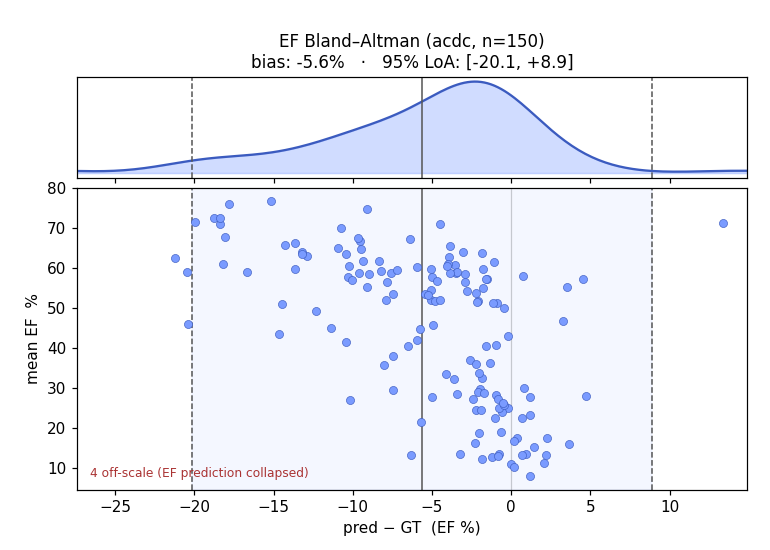
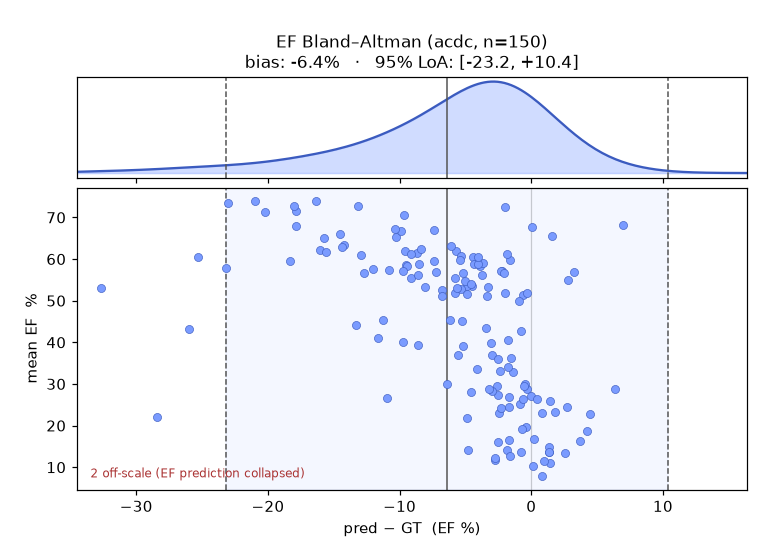
docs: honesty pass for 0.5-synth flagship — prose + plots
Retrained flagship (synth_p=0.5) re-registered as production. Update all hand-written prose numbers + regenerate plots to match cardioseg/RESULTS.json:

- ACDC: Dice 0.88->0.87, EF MAE 6.5->7.1%, bias -5.6->-6.4%, LoA [-20.1,+8.9]->[-23.2,+10.4]
- Unseen-vendor EF improved by synth-aug: Canon 12.1->9.9%, GE 11.5->11.0%; GE Dice 0.838->0.834
- Narrative: 50% synthetic augmentation now applied (core/data/dynamic/synth.py), helps cross-vendor EF at small ACDC cost; Nyul harmonization measured NULL
- Regenerated ef_bland_altman.png + strata_pathology_acdc.png from production

diff --git a/README.md b/README.md
@@ -4,7 +4,7 @@
 fraction** — then asks the question most demos skip: *does that number survive a change of
 scanner?* The model trains on two vendors (Siemens + Philips, 495 subjects) and is evaluated on
 a centre-shift held-out set (ACDC, val) and two fully unseen vendors (Canon + GE, test);
-segmentation generalizes (Dice **0.88** on ACDC, **0.84** on unseen Canon+GE), while EF —
+segmentation generalizes (Dice **0.87** on ACDC, **0.84** on unseen Canon+GE), while EF —
 a ratio of volumes — is the honest hard part. The thread tying it together is geometry: per-voxel
 labels → a clinical number.
 
@@ -38,18 +38,18 @@ never seen in training, n=78 total).
 
 ### Ejection fraction — the clinical output
 EF is the number a clinician acts on, so it's the result that matters. On **ACDC-150**
-(val, centre/protocol shift), the model with heavy augmentation + early stopping + largest-CC +
-TTA: **MAE 6.5%**, bias **−5.6%** (systematic underprediction), 95% LoA [−20.1, +8.9]. The
-chambers are right; absolute volumes drift as calibration shifts across centres. On the two
-**unseen-vendor test sets** (Canon n=9, GE n=69), EF MAE is ~11–12%: Canon 12.1%, GE 11.5% —
-a larger cross-vendor gap that reflects the harder OOD shift.
+(val, centre/protocol shift), the model with heavy augmentation + 50% synthetic augmentation +
+early stopping + largest-CC + TTA: **MAE 7.1%**, bias **−6.4%** (systematic underprediction), 95%
+LoA [−23.2, +10.4]. The chambers are right; absolute volumes drift as calibration shifts across
+centres. On the two **unseen-vendor test sets** (Canon n=9, GE n=69), EF MAE is ~10–11%: Canon
+9.9%, GE 11.0% — a larger cross-vendor gap that reflects the harder OOD shift.
 
 ![EF Bland–Altman — flagship on held-out ACDC: error distribution + bias / 95% LoA](cardioseg/docs/media/ef_bland_altman.png)
 
-**Not clinically usable yet** — MAE 6.5% on val and ~11% on unseen vendors are still past the ±5%
-clinical bar. The plot splits the error in two: a systematic **−5.6% bias** (the curve sits left
+**Not clinically usable yet** — MAE 7.1% on val and ~10–11% on unseen vendors are still past the ±5%
+clinical bar. The plot splits the error in two: a systematic **−6.4% bias** (the curve sits left
 of zero — correctable) and a **spread** (tightened by the work below). EF is a *ratio* of two
-volumes, so it magnifies per-frame segmentation error — the masks are good (Dice 0.88), the
+volumes, so it magnifies per-frame segmentation error — the masks are good (Dice 0.87), the
 derived number isn't.
 
 **Where it fails — stratified (read carefully).** Dice is uniform across pathologies (~0.90), so
@@ -68,39 +68,48 @@ Paths from here, roughly in effort order:
 - ✅ **Test-time augmentation** (applied) — averaging over in-plane flips. Inference-time, no retrain.
 - ✅ **Heavy augmentation + early stopping** (applied) — wider geometry + vendor-style intensity
   jitter (gamma / contrast / blur), GPU-batched; trained to a val-Dice plateau (~95 epochs, kept
-  the best checkpoint), plus multi-source pooling (M&M-2 + M&Ms-1). RV Dice 0.84 → **0.88**,
-  mean → **0.88**, EF MAE 8.2 → **6.5%** (ACDC val), LoA tightened.
+  the best checkpoint), plus multi-source pooling (M&M-2 + M&Ms-1). Lifts the ACDC-val axis
+  (RV Dice 0.84 → ~0.88, EF MAE 8.2 → ~6.5 on the real-only base) before the synth-aug trade below.
+- ✅ **Synthetic augmentation** (applied) — the flagship now mixes in **50% physics-based synthetic
+  bSSFP images generated from the labels** (`core/data/dynamic/synth.py`) alongside real-image aug.
+  Measured effect: it **improved unseen-vendor EF** (Canon 12.1 → **9.9%**, GE 11.5 → **11.0%**) at
+  a small ACDC-val cost (Dice 0.88 → **0.87**, EF MAE 6.5 → **7.1%**) — a modest cross-vendor EF gain,
+  not a Dice gain. This is the diversify lever that actually moved cross-vendor EF.
 - **Cross-scanner intensity harmonization** — today it's per-volume z-score only; vendor-aware
-  histogram standardization may tighten the spread. (Dice already transfers, so this is a smaller
-  lever for EF than for segmentation — but it's the obvious gap.)
+  histogram standardization (Nyúl) was **tried and measured NULL** (0.857 vs 0.864 mean Dice — no
+  gain). Dice already transfers, so harmonization had nothing to close; synthetic augmentation, not
+  harmonization, was the lever that helped EF.
 - **Bias calibration** — a held-out linear EF correction, honest if reported as such.
 - **Stronger segmentation** — nnU-Net baseline, 3D context, or vendor-targeted augmentation.
 
 ### Segmentation — ours vs SOTA
-**A 1.6 M-param model: ~3–4 Dice points under nnU-Net's floor on unseen vendors (Canon 0.836 vs 0.866, GE 0.838 vs 0.878), at ~57× fewer parameters — and it exports to run in the browser. EF gap is model-class epistemic: nnU-Net Canon 2.6% / GE 4.3% vs ours 12.1% / 11.5% — a stronger model class substantially closes it; ours trades that for ONNX portability.**
+**A 1.6 M-param model: ~3–4 Dice points under nnU-Net's floor on unseen vendors (Canon 0.836 vs 0.866, GE 0.834 vs 0.878), at ~57× fewer parameters — and it exports to run in the browser. EF gap is model-class epistemic: nnU-Net Canon 2.6% / GE 4.3% vs ours 9.9% / 11.0% — a stronger model class substantially closes it; ours trades that for ONNX portability.**
 
 Per-structure, unseen-vendor Canon+GE (ED+ES), our deployable model vs the nnU-Net SOTA baseline (**same eval**):
 
 <!-- results:compare -->
 | model | params | FLOPs | Canon Dice | Canon EF MAE | GE Dice | GE EF MAE |
 |---|---|---|---|---|---|---|
-| **ours** (ONNX-deployable) | **1.6 M** | **0.8 G** | 0.84 | 12.1% | 0.84 | 11.5% |
+| **ours** (ONNX-deployable) | **1.6 M** | **0.8 G** | 0.84 | 9.9% | 0.83 | 11.0% |
 | nnU-Net (SOTA baseline) | 92 M | 19 G | 0.87 | **2.6%** | 0.88 | **4.3%** |
 <!-- /results:compare -->
 <sub>numbers auto-filled from `cardioseg/RESULTS.json` (`cardioseg/evaluation/sync_numbers.py`) — do not hand-edit the table above.</sub>
 
 <sub>params + FLOPs measured (fvcore, single forward; nnU-Net at its 256×320 patch — inference adds tiling + TTA on top).</sub>
 
-**How we train:** a 2D U-Net on Siemens+Philips (495 subjects) — heavy GPU augmentation + early stopping +
-largest-CC + TTA — ONNX-exported for cardioview's in-browser inference. The flagship trains with **soft
+**How we train:** a 2D U-Net on Siemens+Philips (495 subjects) — heavy GPU augmentation + **50% synthetic
+augmentation** (physics-based bSSFP images generated from the labels, `core/data/dynamic/synth.py`) +
+early stopping + largest-CC + TTA — ONNX-exported for cardioview's in-browser inference. The synthetic
+mix is the diversify lever that **improved unseen-vendor EF** (Canon 12.1 → 9.9%, GE 11.5 → 11.0%) at a
+small ACDC-val cost (Dice 0.88 → 0.87, EF 6.5 → 7.1%). The flagship also trains with **soft
 (diffuse) boundary labels** — boundary voxels are partial-volume mixes, so the target is a distribution,
 not a hard 0/1 — which leaves Dice/EF unchanged but improves calibration (ECE 0.093 → 0.081 on ACDC val;
 `research/deep_dives/2026-06-29_soft-labels-calibration-vs-ef.md`). **The alternative,** nnU-Net
 (self-configuring SOTA), runs as a *quarantined baseline* ([baselines/nnunet/](baselines/nnunet/)),
 scored through the same eval but **not deployed** (its sliding-window + TTA pipeline doesn't
 clean-export). On unseen-vendor Canon+GE (same split, same eval), nnU-Net leads by **~3–4 Dice points**
-(Canon 0.866 vs 0.836, GE 0.878 vs 0.838). **EF gap is large and model-class epistemic**: nnU-Net Canon
-2.6% vs ours 12.1%; GE 4.3% vs 11.5% — demonstrating the cross-vendor EF gap was reducible by a
+(Canon 0.866 vs 0.836, GE 0.878 vs 0.834). **EF gap is large and model-class epistemic**: nnU-Net Canon
+2.6% vs ours 9.9%; GE 4.3% vs 11.0% — demonstrating the cross-vendor EF gap was reducible by a
 stronger model class. cardioseg trades that for ONNX portability at **~57× fewer parameters and ~23×
 fewer FLOPs**; nnU-Net's sliding-window pipeline doesn't clean-export.
 
@@ -117,15 +126,15 @@ on *purely synthetic* images, zero real pixels — is in
 
 ## Honest limits — the clinical-grade gap
 Competent on public benchmarks, **not** clinical-grade. The specific gaps, measured rather than assumed:
-- **EF precision.** On the ACDC val (centre-shift) 95% LoA are [−20, +9]; on unseen vendors wider
+- **EF precision.** On the ACDC val (centre-shift) 95% LoA are [−23, +10]; on unseen vendors wider
   still — both far past the ±5% clinical bar. And part of the
   the cross-vendor EF gap is **model-class epistemic**: nnU-Net on unseen Canon achieves bias −1.4%,
   LoA [−8.2, +5.4]; on GE bias +0.9%, LoA [−11.7, +13.5] — near the ±5% clinical bar, demonstrating
   the gap was reducible by a stronger model class. Our model's larger gap (bias ~−11%) is a model-class
   limitation, not an irreducible floor.
 - **Unseen-vendor EF degrades.** Two vendors never in training (Canon n=9, GE n=69, total n=78)
-  both score Dice **0.84** and EF MAE **~11–12%** — Canon and GE agree independently, so the
-  cross-vendor signal is robust, but the clinical gap is real (11% vs 6.5% on ACDC val). Canon
+  both score Dice **0.84** and EF MAE **~10–11%** — Canon and GE agree independently, so the
+  cross-vendor signal is robust, but the clinical gap is real (~10–11% vs 7.1% on ACDC val). Canon
   has only 9 labelled subjects (M&Ms-1 withholds most Testing GT), so GE (n=69) carries the EF
   signal; Canon confirms Dice. The LoA on unseen vendors is not yet characterised in full.
 - **Validation is thin.** One 80/20 split — no cross-validation, confidence intervals, or
@@ -142,7 +151,7 @@ adapters into one **data cloud** (830 subjects, 4 vendors, harmonized pathology 
 **M&M-2** ([link](https://www.ub.edu/mnms-2/), 360, 3 vendors), **ACDC**
 ([link](https://www.creatis.insa-lyon.fr/Challenge/acdc/), 150, Siemens), **M&Ms-1** (320 on disk /
 213 labelled, 4 vendors incl. Canon). Each adapter remaps labels + parses metadata to a common schema;
-we pull *all* data and make our own splits. Flagship model trained on Siemens+Philips only; validated on ACDC (centre-shift, 0.88 Dice) and
+we pull *all* data and make our own splits. Flagship model trained on Siemens+Philips only; validated on ACDC (centre-shift, 0.87 Dice) and
 tested on Canon+GE (unseen vendors, 0.84 Dice, n=78). Full schema + results →
 **[cardioseg/](cardioseg/)**.
 
@@ -225,7 +234,9 @@ Naive randomized synth collapses. The engineering is *why*, and fixing it by **d
 
 A U-Net trained on **zero real pixels** segments unseen-vendor cardiac MRI at **0.66 Dice** — short of
 the 0.86 real-trained model, but a working demonstration that label-only contrast-agnostic training
-transfers. As *augmentation* (synth mixed with real) it's Dice-neutral here. Honest read: the method
+transfers. As *augmentation* (synth mixed with real) it's Dice-neutral but **helps cross-vendor EF** —
+the flagship now trains with **50% synthetic augmentation**, which cut unseen-vendor EF MAE (Canon 12.1
+→ 9.9%, GE 11.5 → 11.0%) at a small ACDC-val cost (Dice 0.88 → 0.87). Honest read: the method
 works; the remaining gap is the synthetic background's realism, and the next lever is a learned (GAN)
 generator. The data engine lives behind one `Generator`/`GeneratorCfg` seam (`training/synth.py`,
 `training/generator.py`); the per-class intensity priors are provenance-tracked reference data.

diff --git a/cardioseg/README.md b/cardioseg/README.md
@@ -125,32 +125,34 @@ aug + early stopping + largest-CC + TTA. On the **ACDC val** axis:
 <!-- results:acdc -->
 | structure | Dice | HD95 (mm) | ASSD (mm) |
 |---|---|---|---|
-| LV cavity | 0.92 | 3.0 | 0.55 |
-| LV myocardium | 0.86 | 3.0 | 0.55 |
-| RV cavity | 0.88 | 6.0 | 0.83 |
-| **mean** | **0.88** | | |
+| LV cavity | 0.91 | 3.0 | 0.63 |
+| LV myocardium | 0.85 | 3.0 | 0.59 |
+| RV cavity | 0.86 | 7.5 | 0.94 |
+| **mean** | **0.87** | | |
 <!-- /results:acdc -->
 <sub>auto-filled from `RESULTS.json` (`cardioseg/evaluation/sync_numbers.py`). Published in-distribution ACDC is
 ~0.91–0.93 mean — context, not like-for-like (different test set; see the split caveat above).</sub>
 
 Dice + HD95/ASSD pool **both phases (ED+ES)** — ES is the harder phase (small contracted cavity), so
-including it is the honest read. **EF vs GT: MAE 6.5%** (bias −5.6%, 95% LoA [−20.1, +8.9], n=150).
+including it is the honest read. **EF vs GT: MAE 7.1%** (bias −6.4%, 95% LoA [−23.2, +10.4], n=150).
 **Two-axis generalization** (one model, our own split — the
 challenge splits aren't inherited):
 
 <!-- results:axis -->
 | held-out axis | role | n | mean Dice | EF MAE |
 |---|---|---|---|---|
-| **ACDC** — centre / protocol shift | val | 150 | 0.88 | 6.5% |
-| **Canon** — unseen vendor | test | 9 | 0.84 | 12.1% |
-| **GE** — unseen vendor | test | 69 | 0.84 | 11.5% |
+| **ACDC** — centre / protocol shift | val | 150 | 0.87 | 7.1% |
+| **Canon** — unseen vendor | test | 9 | 0.84 | 9.9% |
+| **GE** — unseen vendor | test | 69 | 0.83 | 11.0% |
 <!-- /results:axis -->
 
 Canon **n=9** (M&Ms-1 withholds GT for most of Testing: 320 on disk, 213 labelled, Canon 50 → 9
 usable) and GE **n=69** are both **unseen-vendor** test sets, scored independently. They return Dice
-**Canon 0.836 / GE 0.838** and EF MAE **~11–12%** — independent agreement at n=78 total makes this a robust
-unseen-vendor signal (not a fluke of one thin split). Pooling M&Ms-1 into training (vs 360 subjects
-alone) lifted the ACDC val axis (mean ~0.87 → 0.88 — extra vendor diversity paid off).
+**Canon 0.836 / GE 0.834** and EF MAE **~10–11%** (Canon 9.9%, GE 11.0%) — independent agreement at n=78
+total makes this a robust unseen-vendor signal (not a fluke of one thin split). Pooling M&Ms-1 into
+training (vs 360 subjects alone) lifted the ACDC val axis (extra vendor diversity paid off), and
+**50% synthetic augmentation** (physics-based bSSFP from labels) further cut the unseen-vendor EF MAE
+(Canon 12.1 → 9.9%, GE 11.5 → 11.0%) at a small ACDC-val cost (Dice 0.88 → 0.87, EF 6.5 → 7.1%).
 
 **Diversity buys robustness — the asymmetry proves it:**
 
@@ -161,7 +163,8 @@ alone) lifted the ACDC val axis (mean ~0.87 → 0.88 — extra vendor diversity 
 | M&M-2 → ACDC (generalization, flagship) | 0.87 | 0.84 | 9.4% |
 
 *Asymmetry table is the base model (identical config across directions, for a fair A/B); the pooled
-split + heavy aug + largest-CC + TTA lift the flagship to 0.88 Dice / 6.5% EF on ACDC-150 (top table).*
+split + heavy aug + 50% synth-aug + largest-CC + TTA lift the flagship to 0.87 Dice / 7.1% EF on
+ACDC-150 (top table) — the synth-aug trade buys cross-vendor EF at a small ACDC cost.*
 
 - Single-centre training loses ~17 Dice points off its home dataset (RV collapses 0.85 → 0.59);
   multi-vendor training carries to a new centre — and a new **vendor** — with **no segmentation drop**.
@@ -179,18 +182,18 @@ split + heavy aug + largest-CC + TTA lift the flagship to 0.88 Dice / 6.5% EF on
 Pooled numbers average over the failures. Broken down (same model, same eval; `distribution.py`
 emits these + `stratified.json`):
 
-**By pathology** (held-out ACDC). Dice is fairly flat (~0.87–0.90) → **masks aren't much worse
+**By pathology** (held-out ACDC). Dice is fairly flat (~0.85–0.89) → **masks aren't much worse
 anywhere**; the EF spread is a *ratio* effect. `gtEF` is given because EF MAE isn't comparable across groups
 with different cavity sizes — a fixed volume error moves EF more when the cavity is small:
 
 <!-- results:strata -->
 | pathology | gtEF | mean Dice | EF MAE | EF bias |
 |---|---|---|---|---|
-| dilated (DCM) | 20% | 0.89 | 1.8% | -0.1% |
-| ischemic (MINF) | 31% | 0.88 | 3.9% | -3.3% |
-| rv_congenital | 57% | 0.88 | 6.6% | -6.5% |
-| normal (NOR) | 62% | 0.90 | 6.3% | -6.1% |
-| **hypertrophic (HCM)** | 70% | 0.86 | 13.8% | -13.6% |
+| dilated (DCM) | 20% | 0.89 | 2.1% | -0.4% |
+| ischemic (MINF) | 31% | 0.87 | 4.1% | -3.4% |
+| rv_congenital | 57% | 0.87 | 7.3% | -7.1% |
+| normal (NOR) | 62% | 0.88 | 6.9% | -6.7% |
+| **hypertrophic (HCM)** | 70% | 0.85 | 15.0% | -14.4% |
 <!-- /results:strata -->
 <sub>auto-filled from `RESULTS.json` (`cardioseg/evaluation/sync_numbers.py`).</sub>
 

diff --git a/cardioseg/MODEL_CARD.md b/cardioseg/MODEL_CARD.md
@@ -9,8 +9,11 @@ This card follows Mitchell et al. 2019; the failure-mode and limitation sections
   `ModelCfg` (`cardioseg/hparams.py`): channels (16,32,64,128,256), strides (2,2,2,2), 2 res-units.
 - **Task:** per-slice short-axis segmentation → chamber volumes → EF = (EDV − ESV) / EDV.
 - **Training recipe:** Dice+CE loss, Adam (lr 1e-3), GPU-batched augmentation (flip/rotate/scale +
-  intensity gamma/contrast/blur/noise), AMP, early stopping (patience 20, 128-epoch ceiling,
-  best-val checkpoint), largest-connected-component postprocessing, test-time augmentation (4 flips).
+  intensity gamma/contrast/blur/noise), **50% synthetic augmentation** (physics-based bSSFP images
+  generated from the labels, `core/data/dynamic/synth.py`), AMP, early stopping (patience 20,
+  128-epoch ceiling, best-val checkpoint), largest-connected-component postprocessing, test-time
+  augmentation (4 flips). The synth-aug mix trades a small ACDC-val cost (Dice 0.88 → 0.87, EF MAE
+  6.5 → 7.1%) for **improved unseen-vendor EF** (Canon 12.1 → 9.9%, GE 11.5 → 11.0%).
 - **Soft boundary labels:** the flagship trains with **soft (diffuse / probabilistic) boundary
   targets** — boundary voxels are partial-volume mixes, so the target is a distribution, not a hard
   0/1. This leaves Dice/EF unchanged but improves calibration (ECE 0.093 → 0.081 on ACDC val). See
@@ -52,18 +55,18 @@ One model, one declarative split rule (DataCfg criteria: `test_datasets=('acdc',
 <!-- results:acdc -->
 | structure | Dice | HD95 (mm) | ASSD (mm) |
 |---|---|---|---|
-| LV cavity | 0.92 | 3.0 | 0.55 |
-| LV myocardium | 0.86 | 3.0 | 0.55 |
-| RV cavity | 0.88 | 6.0 | 0.83 |
-| **mean** | **0.88** | | |
+| LV cavity | 0.91 | 3.0 | 0.63 |
+| LV myocardium | 0.85 | 3.0 | 0.59 |
+| RV cavity | 0.86 | 7.5 | 0.94 |
+| **mean** | **0.87** | | |
 <!-- /results:acdc -->
 <sub>auto-filled from `RESULTS.json` (`cardioseg/evaluation/sync_numbers.py`) — do not hand-edit.</sub>
 
 Dice + HD95/ASSD pool **both phases (ED+ES)** — ES is the harder phase, so this is the honest read
-(ED-only would be ~2 Dice points higher). EF vs GT: **MAE 6.5%**, bias −5.6%, 95% LoA [−20.1, +8.9] (n=150).
+(ED-only would be ~2 Dice points higher). EF vs GT: **MAE 7.1%**, bias −6.4%, 95% LoA [−23.2, +10.4] (n=150).
 
-**Unseen-vendor test (Canon n=9 + GE n=69 = 78 total):** they return mean Dice **Canon 0.836 / GE 0.838** and EF MAE
-**~11–12%** (Canon 12.1%, bias −12.1%; GE 11.5%, bias −11.1%) — independent agreement at n=78 makes
+**Unseen-vendor test (Canon n=9 + GE n=69 = 78 total):** they return mean Dice **Canon 0.836 / GE 0.834** and EF MAE
+**~10–11%** (Canon 9.9%, bias −9.8%; GE 11.0%, bias −10.1%) — independent agreement at n=78 makes
 this a robust unseen-vendor signal. Canon n=9 is thin because M&Ms-1 withholds GT for most of its
 Testing split (320 on disk, 213 labelled, Canon 50 → 9 usable); GE n=69 is the larger leg.
 
@@ -76,14 +79,14 @@ a floor), scored by the same eval layer:
 | unseen-vendor (held out) | nnU-Net (50ep/fold0) | this model |
 |---|---|---|
 | Canon mean Dice | 0.866 | 0.836 |
-| GE mean Dice | 0.878 | 0.838 |
-| Canon / GE EF MAE | **2.6 / 4.3%** | 12.1 / 11.5% |
+| GE mean Dice | 0.878 | 0.834 |
+| Canon / GE EF MAE | **2.6 / 4.3%** | 9.9 / 11.0% |
 <!-- /results:cardcompare -->
 
 Both pool ED+ES. nnU-Net leads by **~3–4 Dice points** on unseen-vendor Canon (0.866 vs 0.836) and
-GE (0.878 vs 0.838) — *even at its floor setting* (50ep/1fold; the full 1000ep × 5-fold + TTA
+GE (0.878 vs 0.834) — *even at its floor setting* (50ep/1fold; the full 1000ep × 5-fold + TTA
 ceiling, `cardiac-seg-yp3`, would pull further ahead). The **EF gap is substantial and
-model-class epistemic**: nnU-Net Canon 2.6% vs ours 12.1%; GE 4.3% vs 11.5% — a stronger model
+model-class epistemic**: nnU-Net Canon 2.6% vs ours 9.9%; GE 4.3% vs 11.0% — a stronger model
 class closes most of the cross-vendor EF gap, demonstrating it was reducible. Ours trades that for
 ONNX portability at ~57× fewer parameters; EF Bland-Altman: nnU-Net Canon bias −1.4%, LoA [−8.2,
 +5.4]; GE bias +0.9%, LoA [−11.7, +13.5] — both near the ±5% clinical bar on unseen vendors.
@@ -95,7 +98,7 @@ Full baseline details + its own card → [`baselines/nnunet/MODEL_CARD.md`](../b
 - **HCM / small cavities — the main EF failure mode.** EF bias is **entirely end-systolic cavity
   over-segmentation** (~fixed absolute mL of boundary + papillary voxels), so its *fractional* impact
   scales inversely with cavity size: corr(ES cavity, ESV ratio) = −0.50. Dilated (huge cavity) is EF-
-  unbiased (≈ −0.2%); hypertrophic (tiny cavity) is worst (EF MAE ~11.9%). Dice stays fairly flat (~0.88)
+  unbiased (≈ −0.4%); hypertrophic (tiny cavity) is worst (EF MAE ~15.0%). Dice stays fairly flat (~0.87)
   across pathologies — masks aren't worse, the EF *ratio* is range-dependent. (See
   `research/deep_dives/2026-06-21_ef-bias-mechanism-esv-overseg.md`.)
 - **RV boundary** is the loosest (HD95 5.8 mm vs myo 2.1, LV-cav 2.1) — basal slices + the small ES cavity.
@@ -104,14 +107,14 @@ Full baseline details + its own card → [`baselines/nnunet/MODEL_CARD.md`](../b
 
 ## Limitations & caveats
 - Single modality (cine MRI short-axis), 2D slice model — no long-axis, no 3D context.
-- Systematic EF under-prediction (bias ≈ −5%) from ES over-segmentation. **Structure (diagnostic):**
+- Systematic EF under-prediction (bias ≈ −6%) from ES over-segmentation. **Structure (diagnostic):**
   the bias is **proportional** (diff vs EF slope −0.18/EF%, r=−0.56, p<1e-13) and **pathology-structured**
-  (DCM ≈ 0% → HCM −11.5%), so a single global offset would over-correct DCM and under-correct HCM —
+  (DCM ≈ 0% → HCM −14.4%), so a single global offset would over-correct DCM and under-correct HCM —
   an honest correction would have to be per-subgroup, which needs target labels (domain adaptation, not
   zero-shot). So it's reported, not patched. Also **not** corrected by a
   constant offset (size-dependent → would over-correct dilated hearts) and **not** a measurement bug
   (volumes are computed correctly). The honest fix is segmentation-side at ES (`cardiac-seg-7oe`).
-- Unseen-vendor test is Canon n=9 + GE n=69 (n=78 total). Canon GT is thin (M&Ms-1 withholds most Testing labels); GE n=69 is the larger leg. Both vendors agree at Dice ~0.84 (Canon 0.836 / GE 0.838) / EF MAE ~11–12%.
+- Unseen-vendor test is Canon n=9 + GE n=69 (n=78 total). Canon GT is thin (M&Ms-1 withholds most Testing labels); GE n=69 is the larger leg. Both vendors agree at Dice ~0.84 (Canon 0.836 / GE 0.834) / EF MAE ~10–11% (Canon 9.9% / GE 11.0%).
 - Public-benchmark performance ≠ deployment performance. "Competent on public benchmarks," not clinical.
 
 ## References